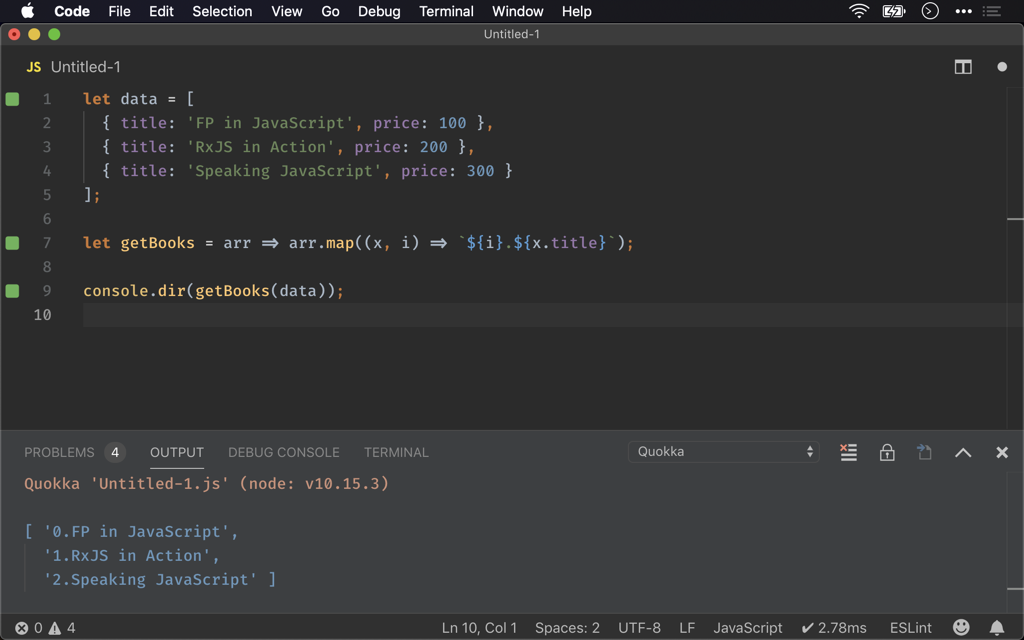
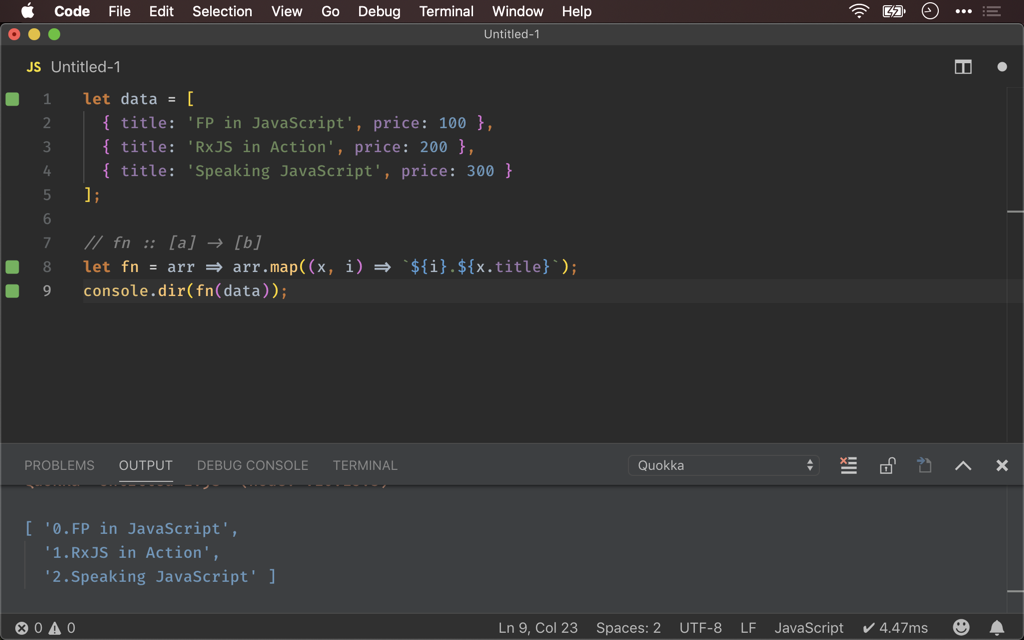
Ramda 之 addIndex()

diff --git a/source/_posts/ramda/addindex.md b/source/_posts/ramda/addindex.md
@@ -4,7 +4,7 @@ tags:
   - Ramda/addIndex
   - Ramda/map
 feature: images/feature/ramda.png
-date: 2019-04-27 17:23:43
+date: 2019-05-15 04:23:43
 ---
 若想在 `Array.prototype.map()` 的 Callback 得知目前 Element 的 Index，其 Callback 的第二個參數就是 Index，但 Ramda 的 `map()` 並沒有提供如此功能，該如何解決呢 ?
 
@@ -25,15 +25,16 @@ let data = [
   { title: 'Speaking JavaScript', price: 300 }
 ];
 
-let getBooks = arr => arr.map((x, i) => `${i}.${x.title}`);
-
-console.dir(getBooks(data));
+// fn :: [a] -> [b]
+let fn = arr => arr.map((x, i) => `${i}.${x.title}`);
+console.dir(fn(data));
 ```
 
 第 7 行
 
 ```javascript
-let getBooks = arr => arr.map((x, i) => `${i}.${x.title}`);
+// fn :: [a] -> [b]
+let fn = arr => arr.map((x, i) => `${i}.${x.title}`);
 ```
 
 第二個參數 `i` 就是 index，可直接使用。
@@ -50,15 +51,18 @@ let data = [
   { title: 'Speaking JavaScript', price: 300 }
 ];
 
+// mapIndex :: (a -> b) -> [a] -> [b]
 let mapIndex = addIndex(map);
-let getBooks = mapIndex((x, i) => `${i}.${x.title}`);
 
-console.dir(getBooks(data));
+// fn : (a -> b) -> [a] -> [b]
+let fn = mapIndex((x, i) => `${i}.${x.title}`);
+console.dir(fn(data));
 ```
 
 第 8 行
 
 ```javascript
+// mapIndex :: (a -> b) -> [a] -> [b]
 let mapIndex = addIndex(map);
 ```
 
@@ -81,14 +85,20 @@ let data = [
   { title: 'Speaking JavaScript', price: 300 }
 ];
 
+// mapIndex :: (a -> b) -> [a] -> [b]
 let mapIndex = addIndex(map);
+
+// title :: Object -> String
 let title = pipe(prop('title'), concat('.'));
+
+// index :: Object -> String
 let index = pipe(identity, String);
-let getBooks = mapIndex(useWith(
+
+// fn :: (a -> b) -> [a] -> [b]
+let fn = mapIndex(useWith(
   flip(concat), [title, index])
 );
-
-console.dir(getBooks(data));
+console.dir(fn(data));
 ```
 
 也可以將 callback 部分進一步 point-free。
